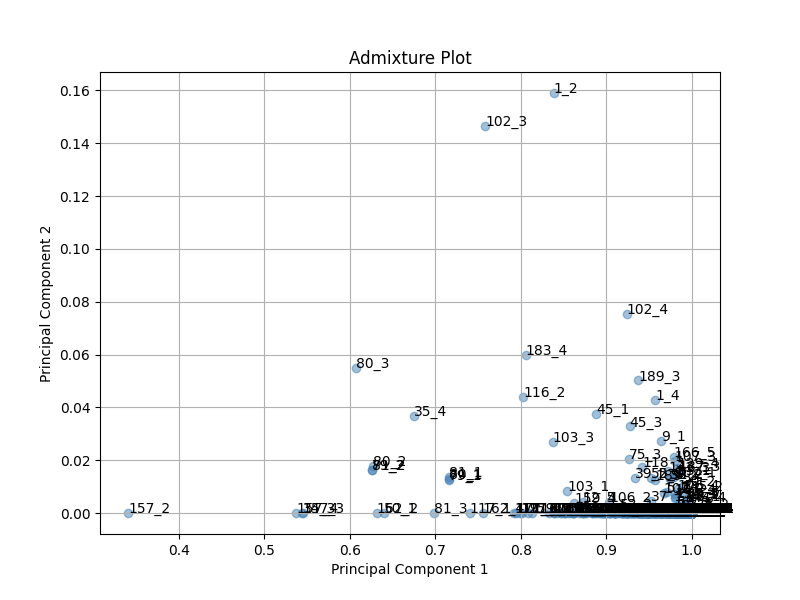
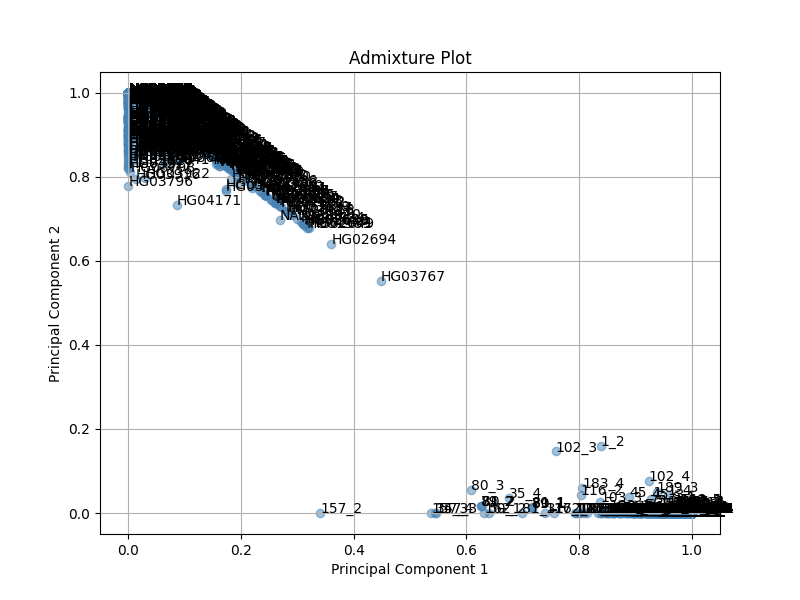
admixture analysis changes

diff --git a/MVC_app/templates/admixture_analysis.html b/MVC_app/templates/admixture_analysis.html
@@ -8,12 +8,12 @@
 <body>
     <h1>Admixture Analysis</h1>
     <form method="post" action="{{ url_for('blueprint.admixture_analysis') }}">
-        <label for="selected_populations">Select groups for admixture analysis:</label><br>
+        <label for="ad_selected_populations">Select groups for admixture analysis:</label><br>
         <input type="radio" id="populations" name="group_type" value="populations" checked>
         <label for="populations">Populations</label>
         <input type="radio" id="superpopulations" name="group_type" value="superpopulations">
         <label for="superpopulations">Superpopulations</label><br><br>
-        <select id="selected_populations" name="selected_populations" multiple>
+        <select id="ad_selected_populations" name="ad_selected_populations" multiple>
             <!-- Options will be dynamically populated based on the button selected -->
         </select><br><br>
         <button type="submit">Perform Admixture Analysis</button>
@@ -21,39 +21,35 @@
 
     <script>
         const populations = {
-            'SIB': 'Siberian Ancestry',
-            'EUR': 'European Ancestry',
-            'EAS': 'East Asian Ancestry',
-            'AMR': 'American Ancestry',
-            'SAS': 'South Asian Ancestry',
-            'AFR': 'African Ancestry',
-            'ACB': 'African Caribbean in Barbados',
-            'ASW': 'Americans of African Ancestry in SW USA',
-            'BEB': 'Bengali in Bangladesh',
-            'CDX': 'Chinese Dai in Xishuangbanna, China',
-            'CHB': 'Han Chinese in Bejing, China',
+            'SIB': 'Siberia',
+            'PJL': 'Punjabi',
+            'BEB': 'Bengali',
+            'STU': 'Tamil',
+            'ITU': 'Telugu',
+            'GIH': 'Gujarati',
+            'GBR': 'British',
+            'FIN': 'Finland',
+            'IBS': 'Iberian',
+            'TSI': 'Toscani',
             'CHS': 'Southern Han Chinese',
-            'CLM': 'Colombians from Medellin, Colombia',
-            'ESN': 'Esan in Nigeria',
-            'FIN': 'Finnish in Finland',
-            'GBR': 'British in England and Scotland',
-            'GIH': 'Gujarati Indian in Houston, TX',
-            'GWD': 'Gambian in Western Division',
-            'IBS': 'Iberian Population in Spain',
-            'ITU': 'Indian Telugu in the UK',
-            'JPT': 'Japanese in Tokyo, Japan',
-            'KHV': 'Kinh in Ho Chi Minh City, Vietnam',
-            'LWK': 'Luhya in Webuye, Kenya',
-            'MSL': 'Mende in Sierra Leone',
-            'MXL': 'Mexican Ancestry in Los Angeles, CA',
-            'PEL': 'Peruvian in Lima, Peru',
-            'PJL': 'Punjabi in Lahore, Pakistan',
-            'PUR': 'Puerto Rican in Puerto Rico',
-            'STU': 'Sri Lankan Tamil in the UK',
-            'TSI': 'Toscani in Italia',
-            'YRI': 'Yoruba in Ibadan, Nigeria'
+            'CDX': 'Dai Chinese',
+            'KHV': 'Kinh Vietnamese',
+            'CHB': 'Han Chinese',
+            'JPT': 'Japanese',
+            'PUR': 'Puerto Rican',
+            'CLM': 'Colombian',
+            'PEL': 'Peruvian',
+            'MXL': 'Mexican Ancestry',
+            'ACB': 'African Caribbean',
+            'GWD': 'Gambian Mandinka',
+            'ESN': 'Esan',
+            'MSL': 'Mende',
+            'YRI': 'Yoruba',
+            'LWK': 'Luhya',
+            'ASW': 'African Ancestry SW'
         };
         const superpopulations = {
+            'SIB': 'Siberian',
             'EUR': 'European',
             'EAS': 'East Asian',
             'AMR': 'American',
@@ -63,7 +59,7 @@
 
 
         function populateDropdown(selectedValue) {
-            const selectElement = document.getElementById('selected_populations');
+            const selectElement = document.getElementById('ad_selected_populations');
             selectElement.innerHTML = '';
             const groups = selectedValue === 'populations' ? populations : superpopulations;
             for (const code in groups) {

diff --git a/MVC_app/services/user_service.py b/MVC_app/services/user_service.py
@@ -101,17 +101,26 @@ def perform_clustering_analysis(selected_populations):
 
 # Implement the admixture analysis function
 
-def perform_admixture_analysis(selected_populations):
-    print("Selected populations:", selected_populations)
-
+def perform_admixture_analysis(ad_selected_populations):
+    print("Selected populations:", ad_selected_populations)
+    if 'EUR' in ad_selected_populations or 'AMR' in ad_selected_populations or 'SAS' in ad_selected_populations or 'EAS' in ad_selected_populations or 'AFR' in ad_selected_populations or 'SIB' in ad_selected_populations :       
+    # Code for EUR population
+        conn = sqlite3.connect('population_data.db')
+        cursor = conn.cursor()
+        print("PRINTINGGGGGG---->",ad_selected_populations)
+        print("INSIDE IF")
+        sql_query = "SELECT ad.id, ad.P1, ad.P2, sp.population FROM admixture as ad JOIN sample_pop as sp ON ad.id = sp.Id WHERE sp.population IN (SELECT population_code FROM populations WHERE superpopulation_code IN ({}))".format(','.join('?' for _ in ad_selected_populations))
+        cursor.execute(sql_query, ad_selected_populations)
 # Import necessary libraries
+    else:
+        conn = sqlite3.connect('population_data.db')
+        cursor = conn.cursor()
+        print("PRINTINGGGGGG---->",ad_selected_populations)
+        print("INSIDE ELSE")
+        # Retrieve PCA results from the database
+        sql_query= "SELECT ad.id, ad.P1, ad.P2, sp.population FROM admixture as ad JOIN sample_pop as sp ON ad.id = sp.Id WHERE sp.population IN ({})".format(','.join('?' for _ in ad_selected_populations))
+        cursor.execute(sql_query, ad_selected_populations)
     # Connect to the database
-    conn = sqlite3.connect('population_data.db')
-    cursor = conn.cursor()
-
-    # Retrieve PCA results from the database
-    
-    cursor.execute("SELECT ad.id, ad.P1, ad.P2, sp.population FROM admixture as ad JOIN sample_pop as sp ON ad.id = sp.Id WHERE sp.population IN ('SIB')")
 
     results = cursor.fetchall()     
 
@@ -145,7 +154,7 @@ def perform_admixture_analysis(selected_populations):
     # Implement clustering analysis logic here based on the selected populations
     # This function should return the clustering results
     # Example: clustering_results = clustering_algorithm(selected_populations)
-    admixture_results = "Admixture results for selected populations: {}".format(selected_populations)
+    admixture_results = "Admixture results for selected populations: {}".format(ad_selected_populations)
     
     return admixture_results, adplot_filepath
 

diff --git a/MVC_app/controllers/machineController.py b/MVC_app/controllers/machineController.py
@@ -35,11 +35,11 @@ def clustering_analysis():
     if request.method == 'POST':
         selected_populations = request.form.getlist('selected_populations')
         # Now you have the selected populations in the list 'selected_populations'
-        superpopulations = request.form.getlist('superpopulations')
+        
         # You can pass this list to your clustering function for further processing
         
         # Example:
-        clustering_results = perform_clustering_analysis(selected_populations or superpopulations)
+        clustering_results = perform_clustering_analysis(selected_populations)
         
         # You can then render a template with the clustering results, or do any other processing
         
@@ -49,13 +49,13 @@ def clustering_analysis():
     return render_template('clustering_analysis.html')
 def admixture_analysis():
     if request.method == 'POST':
-        selected_populations = request.form.getlist('selected_populations')
+        ad_selected_populations = request.form.getlist('ad_selected_populations')
         # Now you have the selected populations in the list 'selected_populations'
         
         # You can pass this list to your clustering function for further processing
         
         # Example:
-        admixture_results = perform_admixture_analysis(selected_populations)
+        admixture_results = perform_admixture_analysis(ad_selected_populations)
         
         # You can then render a template with the clustering results, or do any other processing
         

diff --git a/MVC_app/variant_data.py b/MVC_app/variant_data.py
@@ -7,12 +7,9 @@ cursor = conn.cursor()
 
 # Create variant_table if it doesn't exist
 cursor.execute('''CREATE TABLE IF NOT EXISTS variant_table (
-                    chrom TEXT,
-                    pos INTEGER,
-                    snp_id TEXT,
-                    ref TEXT,
-                    alt TEXT,
-                    geneName TEXT
+                    id TEXT,
+                    population_code INTEGER,
+                    superpopulation_code TEXT,
                 )''')
 
 # Read data from CSV and insert into the table
@@ -20,9 +17,9 @@ with open('variant_table.csv', newline='') as csvfile:
     reader = csv.DictReader(csvfile)
     for row in reader:
         # Insert each row into the table
-        cursor.execute('''INSERT INTO variant_table (chrom, pos, snp_id, ref, alt, geneName)
+        cursor.execute('''INSERT INTO variant_table (id, population_code, superpopulation_code)
                           VALUES (?, ?, ?, ?, ?, ?)''',
-                       (row['chrom'], int(row['pos']), row['snp_id'], row['ref'], row['alt'], row['geneName']))
+                       (row['id'], int(row['population']), row['snp_id'], row['ref'], row['alt'], row['geneName']))
 
 # Commit changes and close connection
 conn.commit()

diff --git a/MVC_app/routes/blueprint.py b/MVC_app/routes/blueprint.py
@@ -7,7 +7,6 @@ blueprint.route('/', methods=['GET'])(index)
 blueprint.route('/create', methods=['GET'])(create)
 blueprint.route('/insert', methods=['GET'])(insert)
 
-#blueprint.route('/clustering_analysis', methods=['GET'])(Clustering_analysis)
 
 blueprint.route('/clustering_analysis', methods=['GET', 'POST'])(clustering_analysis)
 blueprint.route('/admixture_analysis', methods=['GET', 'POST'])(admixture_analysis)

diff --git a/MVC_app/database.py b/MVC_app/database.py
@@ -2,7 +2,7 @@ import sqlite3
 import csv
 
 # Connect to the SQLite database
-conn = sqlite3.connect('your_database.db')
+conn = sqlite3.connect('population_data.db')
 cursor = conn.cursor()
 
 # Create sample_id_table if it doesn't exist
